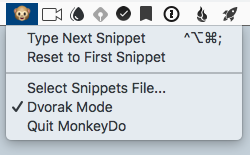
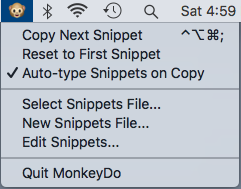
updates readme/docs

diff --git a/README.md b/README.md
@@ -5,37 +5,23 @@ Menulet for simulating typed snippets. Useful for screencasting, live demos, etc
 ## Appearance
 
 ![MonkeyDo Screenshot](docs/monkeydo.png)
+![Snippet Editor Screenshot](docs/snippet_editor.png)
 
 ## Usage
 
 - After launching, import a snippets file (see below) by choosing the `Select Snippets File` menu item.
 - Once snippets have been imported, you can use the `Type Next Snippet` menu item or its keyboard shortcut, `^⌥⌘;`, to cause the first snippet to be typed into the frontmost app.
-- MonkeyDo will automatically prepare the next snippet
+- MonkeyDo will automatically prepare the next enabled snippet
 - At any time, you can start over by selecting `Reset to First Snippet` or import another snippets file entirely.
+- You can add, delete, toggle, and reorder snippets using the built-in snippet editor.
 
 ## Snippets file format
 
-The snippets file should be a plaintext file containing chucks of text separated by lines containing five hashes, like so:
+The snippets file is JSON, and is generally automatically managed by MonkeyDo if you use the built-in snippet editor.
 
-```
-@IBAction func selectSnippetsMenuItemClicked(_ sender: NSMenuItem) {
-
-}
-
-@IBAction func quitMenuItemClicked(_ sender: NSMenuItem) {
-#####
-statusItem.title = "🐵"
-statusItem.menu = menulet
-#####
-// Comment says what?
-```
-
-Note that if you will be using MonkeyDo with an app that automatically generates code (such as inserting indentation or closing braces as you type), that your snippet should account for the difference.
-
-For example, the first snippet above omits a final closing brace because Xcode would add it by default.
+If you prefer to create the file manually, there is a [sample file](docs/testsnippets.json).
 
 ## Known issues
 
-- The global shortcut only works if Dvorak Mode is enabled, and then it works for both QWERTY and Dvorak users.
-- The global shortcut doesn't work for users with hardware keyboards where semicolon is in a different location from that of a QWERTY keyboard.
 - Multi-byte characters (incl. emoji) in input text don't type correctly.
+- The global shortcut doesn't work for users with hardware keyboards where semicolon is in a different location from that of a QWERTY keyboard.
